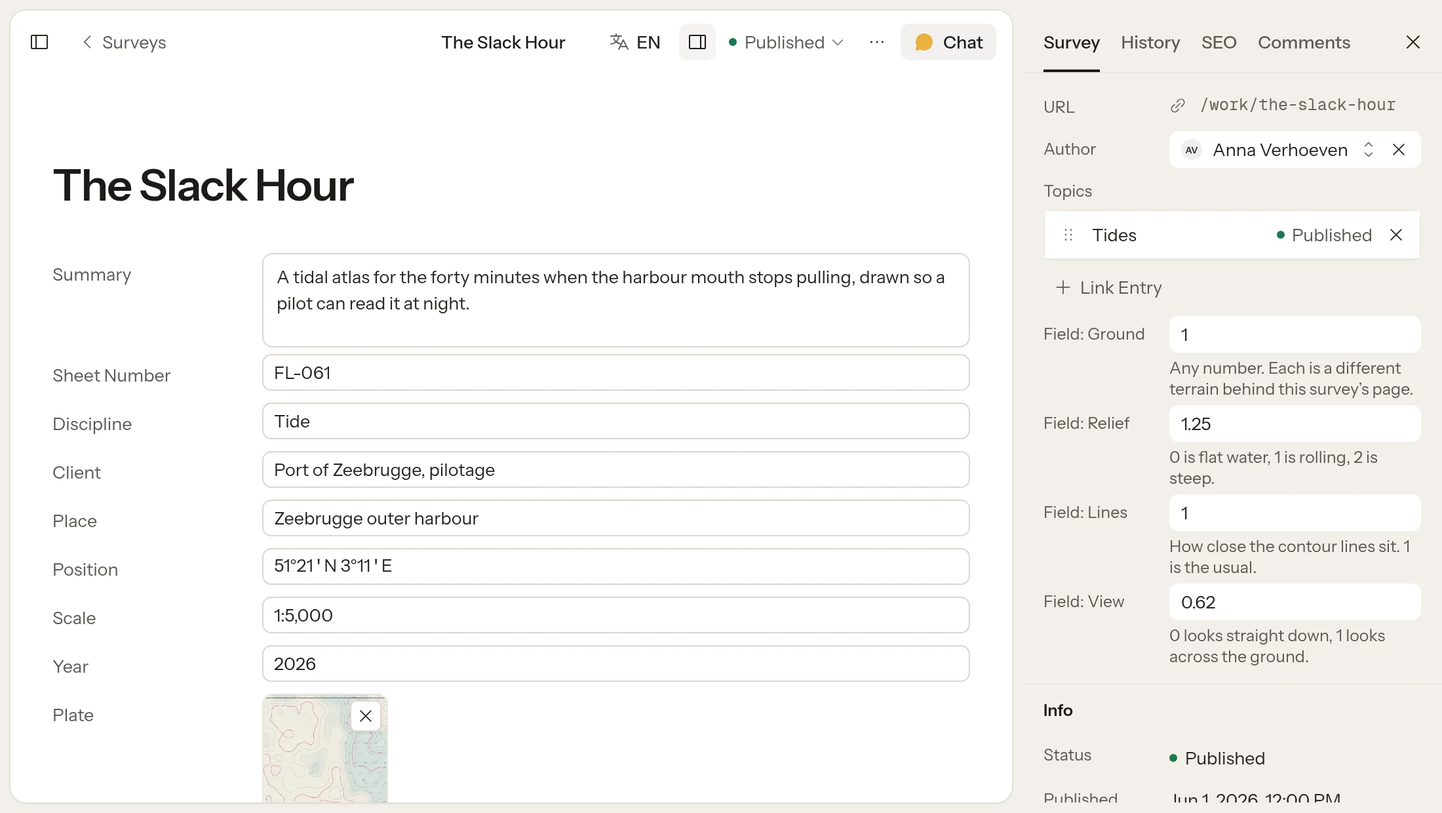
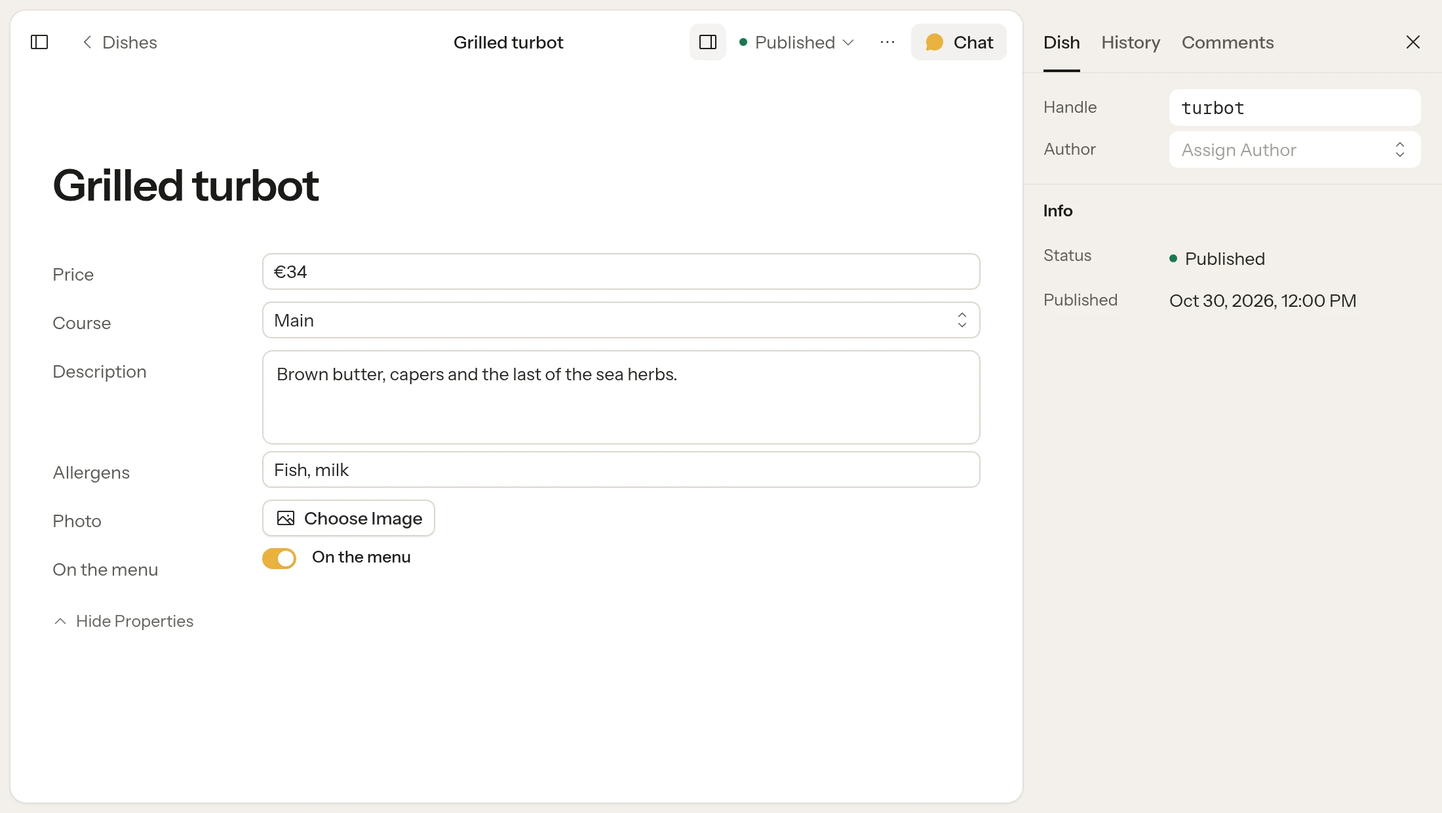
Take the docs' pictures from Ondine again, and say Minimal is a kit of the store
Ondine, the restaurant, is the example site again: the pictures, the
running example of the pages that teach collections and entries, and the
role example follow. The Site Kits pages no longer name Fathomline or Use
Only the Design, and say Minimal is fetched from the store and can be
deleted when the site is another kit.

diff --git a/content/collections/docs/content/collections.md b/content/collections/docs/content/collections.md
@@ -2,11 +2,11 @@
 id: 01m5wmrf4tpyhxb0sn1y43468e
 title: Collections
 position: 0
-description: Make your own kinds of content, like surveys, blog posts or team members, each with the fields it needs.
+description: Make your own kinds of content, like dishes, blog posts or team members, each with the fields it needs.
 ---
-A collection is one kind of content on your site: blog posts, team members, projects, surveys. You decide which fields it has, and everyone then fills in a simple form. Every item in it, each post or each survey, is an **entry**.
+A collection is one kind of content on your site: blog posts, team members, projects, dishes. You decide which fields it has, and everyone then fills in a simple form. Every item in it, each post or each dish, is an **entry**.
 
-::: html {"props":{"html":"<figure class=\"docs-fig\" role=\"img\" aria-label=\"A collection called Surveys defines the fields. Each survey is an entry that fills them in.\"><div class=\"docs-fig__flow\"><div class=\"docs-fig__step\"><div class=\"docs-card\"><b>Surveys</b><span class=\"docs-card__field\">Place</span><span class=\"docs-card__field\">Summary</span><span class=\"docs-card__field\">Plate</span></div><b>Collection</b><small>The fields every survey has</small></div><span class=\"docs-fig__op docs-fig__op--to\">→</span><div class=\"docs-fig__step\"><div class=\"docs-stack\"><div class=\"docs-card docs-card--row\"><span>The Slack Hour</span><em>Zeebrugge</em></div><div class=\"docs-card docs-card--row\"><span>Forty Knots of Nothing</span><em>De Panne</em></div><div class=\"docs-card docs-card--row\"><span>Ground Truth</span><em>Kortrijk</em></div></div><b>Entries</b><small>One for each survey</small></div></div></figure>"}}
+::: html {"props":{"html":"<figure class=\"docs-fig\" role=\"img\" aria-label=\"A collection called Dishes defines the fields. Each dish is an entry that fills them in.\"><div class=\"docs-fig__flow\"><div class=\"docs-fig__step\"><div class=\"docs-card\"><b>Dishes</b><span class=\"docs-card__field\">Price</span><span class=\"docs-card__field\">Description</span><span class=\"docs-card__field\">Photo</span></div><b>Collection</b><small>The fields every dish has</small></div><span class=\"docs-fig__op docs-fig__op--to\">→</span><div class=\"docs-fig__step\"><div class=\"docs-stack\"><div class=\"docs-card docs-card--row\"><span>Grilled turbot</span><em>€34</em></div><div class=\"docs-card docs-card--row\"><span>Six oysters</span><em>€21</em></div><div class=\"docs-card docs-card--row\"><span>Lemon tart</span><em>€9</em></div></div><b>Entries</b><small>One for each dish</small></div></div></figure>"}}
 :::
 
 Pages are a collection too. Your templates then show the entries in your design, so the people filling them in never have to think about layout.
@@ -14,7 +14,7 @@ Pages are a collection too. Your templates then show the entries in your design,
 ## Create a collection
 
 1. Open **Collections**, under **Design** in the sidebar, and press **New Collection**.
-2. Give it a name, like *Surveys*.
+2. Give it a name, like *Dishes*.
 3. Choose a **Structure** (see below).
 4. Press **Create Collection**.
 
@@ -22,21 +22,21 @@ Pages are a collection too. Your templates then show the entries in your design,
 
 The collection opens on its **Fields**, ready for the next step, and it appears in the sidebar, under **Content**, for everyone allowed to see it.
 
-Under **Advanced** you can also set the **Handle** (the name used in code and file names), the **Entry Name** (*Survey* for *Surveys*), the **URL Pattern**, the **Template** and the **Storage** (the database, or files you can keep in git). The entry name, URL pattern and template can be changed later, in the collection's **Settings**.
+Under **Advanced** you can also set the **Handle** (the name used in code and file names), the **Entry Name** (*Dish* for *Dishes*), the **URL Pattern**, the **Template** and the **Storage** (the database, or files you can keep in git). The entry name, URL pattern and template can be changed later, in the collection's **Settings**.
 
 ### Pick a structure
 
 | Structure | Best for | Order |
 |---|---|---|
-| **List** | Surveys, team members, products | Alphabetical, or a field you choose |
+| **List** | Dishes, team members, products | Alphabetical, or a field you choose |
 | **Dated** | Blog posts, news, events | Newest first |
 | **Tree** | Pages that nest, like *About → Team* | By hand, drag to reorder |
 
 ## Add fields
 
-Fields are the questions the form asks: a place, a plate, a short summary. On the collection's **Fields** tab, press **Add Field**, pick a type and give it a label. Drag fields to put them in order, then press **Save** in the bar that appears at the bottom (or `⌘S`).
+Fields are the questions the form asks: a price, a photo, a short description. On the collection's **Fields** tab, press **Add Field**, pick a type and give it a label. Drag fields to put them in order, then press **Save** in the bar that appears at the bottom (or `⌘S`).
 
-![The Surveys collection's fields: report, summary, sheet number, discipline, client, place and more.](/media/screens/collection.webp)
+![The Dishes collection's fields: price, course, description, allergens, photo and whether it's on the menu.](/media/screens/collection.webp)
 
 If the page builder is on, a new collection starts with a **Content** field. That's where an entry is built from blocks, just like a page. Remove it if your entries only need simple fields. See [Fields](/content/fields) for every option.
 
@@ -59,9 +59,9 @@ Next to it, choose the **Template** that frames each entry. Leave it empty to us
 
 ## Fill it in
 
-Open the collection from the sidebar and press the button named after its entries, like **New Survey**. You, your team and your clients fill in the form, and the design takes care of itself.
+Open the collection from the sidebar and press the button named after its entries, like **New Dish**. You, your team and your clients fill in the form, and the design takes care of itself.
 
-![Filling in a survey: one simple form, with the fields the collection asks for.](/media/screens/entry.webp)
+![Filling in a dish: one simple form, with the fields the collection asks for.](/media/screens/entry.webp)
 
 See [Entries](/content/entries) for saving, publishing and scheduling.
 
@@ -69,7 +69,7 @@ See [Entries](/content/entries) for saving, publishing and scheduling.
 
 Every collection can show its entries as a **Table**, a **Grid** of cards or a **Calendar**. Use **Display** above the list to switch, pick the columns or fields to show, and sort. Your choices are saved for you, per collection.
 
-![The list of surveys in a table.](/media/screens/entries.webp)
+![The list of dishes in a table.](/media/screens/entries.webp)
 
 To keep more than one arrangement, change the list and press **Save View** beside **Display**, then give it a name. It keeps what the list is narrowed to (status, language, search), its order, its columns and whether it is a table, a grid or a calendar. Your views show as tabs above the list, after **All**: choose one to put the list back that way. When you change the list on a view, its tab shows a dot and **Save View** offers to update it or save a new one; **Reset** puts it back. Choose the tab you are on to rename or delete that view. Views are yours alone and come with your account to every browser.
 

diff --git a/content/collections/docs/design/site-kits.md b/content/collections/docs/design/site-kits.md
@@ -6,18 +6,18 @@ description: 'A whole site you can switch to and back: choosing one, trying othe
 ---
 A site kit is a complete site: its pages and posts, its collections, menus and global sets, its design system, templates and components, its scripts, styles and fonts, and the images they show. Your site is one kit at a time, and you can switch between kits and back. Once a kit is on your site every file is yours: nothing links back to it, and a newer version of the kit never changes a site that started from an older one.
 
-A new site starts from **Minimal**, which comes with Lettern: a home page, an about page and a blog with three posts.
+A new site starts from **Minimal**: a home page, an about page and a blog with three posts. It is a kit of the store like any other (`letterncms/minimal`), not part of Lettern: setup fetches it, and it can be deleted when your site is another kit.
 
 A kit is the portable form of a site. It is a folder of Markdown, YAML and JSON (plus the images), whatever your collections store their entries in, so you can keep it in a repository of its own, hand it to someone, or run several sites from kits you made.
 
 ## Choosing one when you install
 
-Setup shows the kits it can start from under **Start From**, each with its picture and its name. **Minimal** is chosen; pick another, or none for an empty site. Kits from the store appear there too, and setup fetches the one you choose as it fetches a plugin. If it can't, setup says so: try again, or start from Minimal.
+Setup shows the kits it can start from under **Start From**, each with its picture and its name. **Minimal** is chosen; pick another, or none for an empty site. Kits from the store appear there too, and setup fetches the one you choose as it fetches a plugin, Minimal included. If it can't, setup says so: try again, or start without a kit.
 
 From the command line, `--kit` chooses it:
 
 ```bash
-php cms install --kit=fathomline        # a kit in kits/, or one to fetch: letterncms/fathomline
+php cms install --kit=studio            # a kit in kits/, or one to fetch: letterncms/studio
 php cms install --kit=none              # an empty site
 ```
 
@@ -27,14 +27,14 @@ A site that already has collections (one you cloned with its content) is never g
 
 Choose a kit from the site's name at the top of the sidebar, or under **Design → Site Kits**. The site is that kit at once: no settings, nothing to decide.
 
-What your site was is saved first, drafts included, with the kit it was. Switch back and you get it as you left it, not as the kit came. The toast after a switch has **Undo**, which does the same. A kit's menu on **Site Kits** has **Start Over**, which brings the kit as it came and lets go of what you changed (it asks first), and **Use Only the Design**, which replaces the templates, components, fonts and styles and leaves your pages, posts and menus.
+What your site was is saved first, drafts included, with the kit it was. Switch back and you get it as you left it, not as the kit came. The toast after a switch has **Undo**, which does the same. A kit's menu on **Site Kits** has **Start Over**, which brings the kit as it came and lets go of what you changed (it asks first).
 
 A switch replaces what a kit carries (see below) and nothing else. Accounts, the media library, form submissions, analytics, the audit log and every setting a kit doesn't carry stay. If the kit needs plugins your site doesn't run, **Site Kits** says which, with a way to the store. A kit with scripts or styles needs **Edit Custom CSS and JavaScript**, and a switch needs the permission to edit the settings. A switch that fails leaves the site as it was; a snapshot of the site is also in `storage/backups/`.
 
 ```bash
 php cms kit:list
-php cms kit:switch fathomline              # the site you leave is saved
-php cms kit:switch minimal --fresh         # the kit as it came
+php cms kit:switch studio                 # the site you leave is saved
+php cms kit:switch studio --fresh          # the kit as it came
 ```
 
 ## Putting a kit on top
@@ -42,8 +42,8 @@ php cms kit:switch minimal --fresh         # the kit as it came
 To bring a kit's parts in beside what your site has, instead of replacing it, apply it:
 
 ```bash
-php cms kit:apply fathomline --mode=design --dry-run     # every step, nothing written
-php cms kit:apply fathomline --clash=rename              # refuse (the default), skip, replace or rename
+php cms kit:apply studio --mode=design --dry-run     # every step, nothing written
+php cms kit:apply studio --clash=rename                # refuse (the default), skip, replace or rename
 ```
 
 `--mode=design` brings the tokens, fonts, templates, components, scripts, styles and libraries; `full` (the default) its content too. While your site has something of a name the kit brings, the apply refuses and names each one, until `--clash` says what happens to it: `skip` (yours stays), `replace` (the kit's takes its place, after a snapshot in `storage/backups/`) or `rename` (an entry comes in beside yours under a new address, like `home-2`). Everything a kit would write is checked before the first file is, and a kit that fails on the way leaves your site as it was.
@@ -71,11 +71,11 @@ A kit never holds accounts, tokens, secrets, form submissions, analytics, the au
 
 ## Naming a kit
 
-A kit's name, description and thumbnail come from its `kit.json` and `previews/`. **Export Site** asks for them (left empty, the description is your site's own), and **Edit Details** on a kit's menu changes them later. A kit that comes with Lettern can't be changed. Agents use `kits/update`.
+A kit's name, description and thumbnail come from its `kit.json` and `previews/`. **Export Site** asks for them (left empty, the description is your site's own), and **Edit Details** on a kit's menu changes them later. Agents use `kits/update`.
 
 ## Deleting a kit
 
-**Delete** on a kit's menu removes the kit and the copy kept of it, with what you changed in it; your site stays as it is. The kit your site is now can't be deleted (switch first), nor can the kits that come with Lettern. Agents use `kits/delete`.
+**Delete** on a kit's menu removes the kit and the copy kept of it, with what you changed in it; your site stays as it is. The kit your site is now can't be deleted (switch first): a site is always one kit that is there, or none. Minimal can be deleted like any other kit, and fetched again from the store when you want it. Agents use `kits/delete`.
 
 ## Importing a kit
 

diff --git a/content/collections/docs/design/data.md b/content/collections/docs/design/data.md
@@ -4,12 +4,12 @@ title: Showing content
 position: 4
 description: Connect blocks to your content, so pages show their own title, the latest posts or your menu, in your design.
 ---
-Much of what a page shows isn't typed into the page. A template shows each page's own title. A menu lists your links. A home page lists the latest surveys. In Lettern, you design a block once and connect it to that content, and the content fills it in.
+Much of what a page shows isn't typed into the page. A template shows each page's own title. A menu lists your links. A home page lists the latest dishes. In Lettern, you design a block once and connect it to that content, and the content fills it in.
 
-::: html {"props":{"html":"<figure class=\"docs-fig\" role=\"img\" aria-label=\"One card designed inside a Repeat, times every survey in the collection, makes a page with one card per survey.\"><div class=\"docs-fig__flow\"><div class=\"docs-fig__step\"><div class=\"docs-card\"><b>Survey card</b><span class=\"docs-card__field\">Title</span><span class=\"docs-card__field\">Place</span></div><b>Your design</b><small>One card, inside a Repeat</small></div><span class=\"docs-fig__op\">×</span><div class=\"docs-fig__step\"><div class=\"docs-stack\"><div class=\"docs-card docs-card--row\"><span>The Slack Hour</span><em>Zeebrugge</em></div><div class=\"docs-card docs-card--row\"><span>Forty Knots of Nothing</span><em>De Panne</em></div><div class=\"docs-card docs-card--row\"><span>Ground Truth</span><em>Kortrijk</em></div></div><b>Your content</b><small>Every survey in the collection</small></div><span class=\"docs-fig__op\">=</span><div class=\"docs-fig__step\"><div class=\"docs-mock docs-mock--live\"><i class=\"docs-mock__h\"></i><i class=\"docs-mock__l\"></i><i class=\"docs-mock__h\"></i><i class=\"docs-mock__l\"></i><i class=\"docs-mock__h\"></i><i class=\"docs-mock__l\"></i></div><b>The page</b><small>One card per survey</small></div></div></figure>"}}
+::: html {"props":{"html":"<figure class=\"docs-fig\" role=\"img\" aria-label=\"One card designed inside a Repeat, times every dish in the collection, makes a page with one card per dish.\"><div class=\"docs-fig__flow\"><div class=\"docs-fig__step\"><div class=\"docs-card\"><b>Dish card</b><span class=\"docs-card__field\">Name</span><span class=\"docs-card__field\">Price</span></div><b>Your design</b><small>One card, inside a Repeat</small></div><span class=\"docs-fig__op\">×</span><div class=\"docs-fig__step\"><div class=\"docs-stack\"><div class=\"docs-card docs-card--row\"><span>Grilled turbot</span><em>€34</em></div><div class=\"docs-card docs-card--row\"><span>Six oysters</span><em>€21</em></div><div class=\"docs-card docs-card--row\"><span>Lemon tart</span><em>€9</em></div></div><b>Your content</b><small>Every dish in the collection</small></div><span class=\"docs-fig__op\">=</span><div class=\"docs-fig__step\"><div class=\"docs-mock docs-mock--live\"><i class=\"docs-mock__h\"></i><i class=\"docs-mock__l\"></i><i class=\"docs-mock__h\"></i><i class=\"docs-mock__l\"></i><i class=\"docs-mock__h\"></i><i class=\"docs-mock__l\"></i></div><b>The page</b><small>One card per dish</small></div></div></figure>"}}
 :::
 
-When an editor adds a survey, it appears on the page in your design. Nobody has to touch the layout.
+When an editor adds a dish, it appears on the page in your design. Nobody has to touch the layout.
 
 ## Show a field in a block
 
@@ -25,27 +25,27 @@ The list only offers what makes sense where the block is: inside a template, the
 
 You can also type into a connected setting. Put data in braces, and write words around it:
 
-- `© {site.year} {site.name}` gives *© 2026 Fathomline*.
+- `© {site.year} {site.name}` gives *© 2026 Ondine*.
 - `Posted {entry.date|date:M j, Y}` gives *Posted Oct 4, 2026*.
 
 The part after `|` is a filter that changes how a value looks: a date format, a short excerpt, upper case. The list shows a few examples at the bottom, and the full set is under [For developers](#filters).
 
 ## Show a list with Repeat
 
-A **Repeat** block shows its contents once for every item of a list: every survey, every link of a menu, every page in a section. You design one item, and the Repeat makes the rest.
+A **Repeat** block shows its contents once for every item of a list: every dish, every link of a menu, every page in a section. You design one item, and the Repeat makes the rest.
 
-![The Repeat block on the home page, listing surveys, with its Content settings on the right.](/media/screens/design-repeat.webp)
+![The Repeat block on the home page, listing dishes, with its Content settings on the right.](/media/screens/design-repeat.webp)
 
 1. Add a **Repeat** block where the list should go.
 2. In its **Content** tab, choose a **List**, like **Collection Entries**, and set it up: which **Collection**, in what **Sort Order**, and **How Many**. **Only Entries Where** narrows it down with conditions: pick a field, how it compares (*is*, *is not*, *contains*…) and a value.
-3. Inside the Repeat, design one item: a card with a heading, an image and a place.
+3. Inside the Repeat, design one item: a card with a heading, an image and a price.
 4. Connect each block in it to the item: the heading to the item's **Title**, the image to a photo field, the card's link to the item's **Link**.
 
 Style the Repeat itself in **Design** to lay the items out, for example as a grid of three columns that becomes one column on phones.
 
 | List | Repeats for |
 |---|---|
-| **Collection Entries** | Entries of a collection: the latest posts, all surveys, the projects in a category |
+| **Collection Entries** | Entries of a collection: the latest posts, all dishes, the projects in a category |
 | **Child Pages** | The pages under this page, under its parent, or in its whole section |
 | **Breadcrumbs** | The pages above this one, for a breadcrumb trail |
 | **Previous and Next Entry** | The entries before and after this one in its collection's order, for the foot of an article or a project. **Show** takes either side alone, and **Go Round at the Ends** leads from the last back to the first |

diff --git a/content/collections/docs/operations/publishing.md b/content/collections/docs/operations/publishing.md
@@ -38,10 +38,10 @@ You rarely need it: publishing a page already updates every page it affects. It'
 
 Lettern remembers what each page shows. So when you change something, it rebuilds only the pages that use it, and leaves the rest alone.
 
-::: html {"props":{"html":"<figure class=\"docs-fig\" role=\"img\" aria-label=\"You publish a survey. Lettern rebuilds the survey's page and the page that lists it, and writes them as plain HTML files that visitors get directly.\"><div class=\"docs-fig__flow\"><div class=\"docs-fig__step\"><div class=\"docs-card\"><b>The Slack Hour</b><span class=\"docs-card__field\">Place</span><span class=\"docs-card__field\">Plate</span></div><b>You publish</b><small>One survey</small></div><span class=\"docs-fig__op docs-fig__op--to\">→</span><div class=\"docs-fig__step\"><div class=\"docs-stack\"><div class=\"docs-card docs-card--row\"><span>/work/the-slack-hour</span></div><div class=\"docs-card docs-card--row\"><span>/work</span></div><div class=\"docs-card docs-card--row\"><span>/</span></div></div><b>Lettern rebuilds</b><small>Only the pages that show it</small></div><span class=\"docs-fig__op docs-fig__op--to\">→</span><div class=\"docs-fig__step\"><div class=\"docs-mock docs-mock--live\"><i class=\"docs-mock__bar\"></i><i class=\"docs-mock__h\"></i><i class=\"docs-mock__l\"></i><i class=\"docs-mock__img\"></i></div><b>Visitors get files</b><small>No PHP, no database</small></div></div></figure>"}}
+::: html {"props":{"html":"<figure class=\"docs-fig\" role=\"img\" aria-label=\"You publish a dish. Lettern rebuilds the dish's page and the menu page that lists it, and writes them as plain HTML files that visitors get directly.\"><div class=\"docs-fig__flow\"><div class=\"docs-fig__step\"><div class=\"docs-card\"><b>Grilled turbot</b><span class=\"docs-card__field\">Price</span><span class=\"docs-card__field\">Photo</span></div><b>You publish</b><small>One dish</small></div><span class=\"docs-fig__op docs-fig__op--to\">→</span><div class=\"docs-fig__step\"><div class=\"docs-stack\"><div class=\"docs-card docs-card--row\"><span>/dishes/turbot</span></div><div class=\"docs-card docs-card--row\"><span>/menu</span></div><div class=\"docs-card docs-card--row\"><span>/</span></div></div><b>Lettern rebuilds</b><small>Only the pages that show it</small></div><span class=\"docs-fig__op docs-fig__op--to\">→</span><div class=\"docs-fig__step\"><div class=\"docs-mock docs-mock--live\"><i class=\"docs-mock__bar\"></i><i class=\"docs-mock__h\"></i><i class=\"docs-mock__l\"></i><i class=\"docs-mock__img\"></i></div><b>Visitors get files</b><small>No PHP, no database</small></div></div></figure>"}}
 :::
 
-- **Change a survey**, and its page, the list that shows it and the home page that features it are rebuilt.
+- **Change a dish**, and its page, the menu that lists it and the home page that features it are rebuilt.
 - **Change the header**, and the pages that show the header are rebuilt.
 - **Change something every page uses**, like the [design system](/design/design-system), a template, a menu or the site settings, and the whole site is rebuilt.
 

diff --git a/content/collections/docs/getting-started/how-it-works.md b/content/collections/docs/getting-started/how-it-works.md
@@ -31,9 +31,9 @@ Your colors, fonts and spacing live in one place: the **design system**. Blocks 
 
 ## Content lives in collections
 
-Pages are one kind of content. Most sites have others: blog posts, team members, projects, products. Each kind is a **collection**, and you decide which fields it has. Every item in it, each post or each project, is an **entry**.
+Pages are one kind of content. Most sites have others: blog posts, team members, projects, products. Each kind is a **collection**, and you decide which fields it has. Every item in it, each post or each dish, is an **entry**.
 
-::: html {"props":{"html":"<figure class=\"docs-fig\" role=\"img\" aria-label=\"A collection called Surveys defines the fields. Each survey is an entry that fills them in.\"><div class=\"docs-fig__flow\"><div class=\"docs-fig__step\"><div class=\"docs-card\"><b>Surveys</b><span class=\"docs-card__field\">Place</span><span class=\"docs-card__field\">Summary</span><span class=\"docs-card__field\">Plate</span></div><b>Collection</b><small>The fields every survey has</small></div><span class=\"docs-fig__op docs-fig__op--to\">→</span><div class=\"docs-fig__step\"><div class=\"docs-stack\"><div class=\"docs-card docs-card--row\"><span>The Slack Hour</span><em>Zeebrugge</em></div><div class=\"docs-card docs-card--row\"><span>Forty Knots of Nothing</span><em>De Panne</em></div><div class=\"docs-card docs-card--row\"><span>Ground Truth</span><em>Kortrijk</em></div></div><b>Entries</b><small>One for each survey</small></div></div></figure>"}}
+::: html {"props":{"html":"<figure class=\"docs-fig\" role=\"img\" aria-label=\"A collection called Dishes defines the fields. Each dish is an entry that fills them in.\"><div class=\"docs-fig__flow\"><div class=\"docs-fig__step\"><div class=\"docs-card\"><b>Dishes</b><span class=\"docs-card__field\">Price</span><span class=\"docs-card__field\">Description</span><span class=\"docs-card__field\">Photo</span></div><b>Collection</b><small>The fields every dish has</small></div><span class=\"docs-fig__op docs-fig__op--to\">→</span><div class=\"docs-fig__step\"><div class=\"docs-stack\"><div class=\"docs-card docs-card--row\"><span>Grilled turbot</span><em>€34</em></div><div class=\"docs-card docs-card--row\"><span>Six oysters</span><em>€21</em></div><div class=\"docs-card docs-card--row\"><span>Lemon tart</span><em>€9</em></div></div><b>Entries</b><small>One for each dish</small></div></div></figure>"}}
 :::
 
 Your pages then show those entries in your design: the latest posts on the home page, the full menu on the menu page. Editors only fill in the fields, and the design takes care of itself. See [Collections](/content/collections).

diff --git a/content/collections/docs/operations/users-and-roles.md b/content/collections/docs/operations/users-and-roles.md
@@ -4,9 +4,9 @@ title: Users and roles
 position: 3
 description: Let your clients and team in, each with exactly the access they need, down to a single collection.
 ---
-Everyone who works on the site gets their own sign-in. A **role** decides what they can do: your team may change everything, while a client only updates their surveys and plates, and never touches the design.
+Everyone who works on the site gets their own sign-in. A **role** decides what they can do: your team may change everything, while a client only updates their menu and photos, and never touches the design.
 
-![A role made for a client: the survey team can change surveys and field reports and upload plates, nothing else.](/media/screens/operations-roles.webp)
+![A role made for a client: the restaurant team can change dishes and upload photos, nothing else.](/media/screens/operations-roles.webp)
 
 ## Invite someone
 
@@ -34,13 +34,13 @@ Someone with more than one role can do everything any of them allows.
 Most clients need less than an Editor. Give them a role that fits.
 
 1. Open **Settings → Roles** and press **New Role**.
-2. Name it, like *Survey team*, and describe it in a few words.
-3. Tick what it may do. The collections are one table, with **View**, **Create**, **Edit**, **Publish** and **Delete** for each, so a role can be limited to just the surveys. A group's **All** ticks or clears all of it, a collection's name its row, and **All Collections** a column.
+2. Name it, like *Restaurant team*, and describe it in a few words.
+3. Tick what it may do. The collections are one table, with **View**, **Create**, **Edit**, **Publish** and **Delete** for each, so a role can be limited to just the dishes. A group's **All** ticks or clears all of it, a collection's name its row, and **All Collections** a column.
 4. Press **Save** in the bar at the bottom, or `⌘S`, and give the role to your client under **Users**.
 
 Permissions are grouped by what they're about, **Admin** first. To start from a role you have, choose **Duplicate Role** in its menu; **Delete Role** is there too. The number beside a role is how many people hold it. The **Administrator** role always keeps every permission, so nobody can lock the site out.
 
-::: callout {"props":{"tone":"tip","text":"To keep the design as it is, give a client only the collections they write in, like Surveys, and leave out Templates, Components and the settings."}}
+::: callout {"props":{"tone":"tip","text":"To keep the design as it is, give a client only the collections they write in, like Dishes, and leave out Templates, Components and the settings."}}
 :::
 
 ## Team and visitors

diff --git a/content/collections/docs/agents/assistant.md b/content/collections/docs/agents/assistant.md
@@ -6,7 +6,7 @@ description: Claude, in the workspace. Ask in plain words and watch it build, wr
 ---
 The assistant is Claude, answering in the [workspace](/getting-started/workspace). Ask it in plain words to build a page, rewrite a section or fix your SEO, and watch the change happen on the page beside the thread. It works as you, with your permissions, and asks before it deletes anything, turns a plugin on or off, or does something hard to undo.
 
-::: html {"props":{"html":"<figure class=\"docs-fig\" role=\"img\" aria-label=\"You ask in plain words. The assistant makes the change on the page, as you. Deleting waits for your go-ahead.\"><div class=\"docs-fig__flow\"><div class=\"docs-fig__step\"><div class=\"docs-card\"><b>You</b><span class=\"docs-card__field\">Add our people to the office page</span></div><b>Ask</b><small>In plain words</small></div><span class=\"docs-fig__op docs-fig__op--to\">→</span><div class=\"docs-fig__step\"><div class=\"docs-mock docs-mock--live\"><i class=\"docs-mock__h\"></i><i class=\"docs-mock__l\"></i><i class=\"docs-mock__l docs-mock__l--short\"></i><i class=\"docs-mock__img\"></i></div><b>It works</b><small>On the page, as you</small></div><span class=\"docs-fig__op docs-fig__op--to\">→</span><div class=\"docs-fig__step\"><div class=\"docs-card\"><b>Allow this action?</b><span class=\"docs-card__field\">Delete “Night Shift”</span></div><b>You decide</b><small>Before anything is deleted</small></div></div></figure>"}}
+::: html {"props":{"html":"<figure class=\"docs-fig\" role=\"img\" aria-label=\"You ask in plain words. The assistant makes the change on the page, as you. Deleting waits for your go-ahead.\"><div class=\"docs-fig__flow\"><div class=\"docs-fig__step\"><div class=\"docs-card\"><b>You</b><span class=\"docs-card__field\">Add a wine list under the menu</span></div><b>Ask</b><small>In plain words</small></div><span class=\"docs-fig__op docs-fig__op--to\">→</span><div class=\"docs-fig__step\"><div class=\"docs-mock docs-mock--live\"><i class=\"docs-mock__h\"></i><i class=\"docs-mock__l\"></i><i class=\"docs-mock__l docs-mock__l--short\"></i><i class=\"docs-mock__img\"></i></div><b>It works</b><small>On the page, as you</small></div><span class=\"docs-fig__op docs-fig__op--to\">→</span><div class=\"docs-fig__step\"><div class=\"docs-card\"><b>Allow this action?</b><span class=\"docs-card__field\">Delete “Lemon tart”</span></div><b>You decide</b><small>Before anything is deleted</small></div></div></figure>"}}
 :::
 
 ## Set it up

diff --git a/content/collections/docs/agents/cli.md b/content/collections/docs/agents/cli.md
@@ -79,12 +79,12 @@ php cms vendor remove nothing --json
 
 | Command | Does |
 |---|---|
-| `cms install` | Installs a site: see [Installation](/getting-started/installation). `--kit=<handle>` starts it from a site kit (`minimal` unless you say otherwise, `none` for an empty site). |
+| `cms install` | Installs a site: see [Installation](/getting-started/installation). `--kit=<handle>` starts it from a site kit (`minimal`, fetched from the store, unless you say otherwise; `none` for an empty site). |
 | `cms migrate` | Runs migrations and plugin install and upgrade steps, and imports `content/media`. It never asks before it runs. `migrate:status`, `migrate:rollback` and the other `migrate:` commands cover the core's tables and the plugins'. |
 | `cms update` | Checks the signed update list and [updates the core](/getting-started/upgrading). `--check` only says what's on offer. `--security-only` does what an admin's visit would, for cron. |
-| `cms kit:list` | Lists the site kits this site can apply: `minimal`, which comes with the CMS, and the folders in `kits/`. |
+| `cms kit:list` | Lists the site kits this site can apply: the folders in `kits/`. |
 | `cms kit:switch <handle>` | Makes this site another site kit, saving what it is now: switching back brings it as you left it. `--fresh` brings the kit as it came. |
-| `cms kit:apply <handle>` | Copies a site kit into this site. `--mode=design` brings its design only, `full` (the default) its content too. `--dry-run` lists every step; while the site has something of a name the kit brings, it refuses until `--clash=skip`, `replace` (after a snapshot in `storage/backups/`) or `rename`. `kit:apply minimal --clash=replace` puts the kit a new site starts from back. |
+| `cms kit:apply <handle>` | Copies a site kit into this site. `--mode=design` brings its design only, `full` (the default) its content too. `--dry-run` lists every step; while the site has something of a name the kit brings, it refuses until `--clash=skip`, `replace` (after a snapshot in `storage/backups/`) or `rename`. `composer require letterncms/minimal`, then `kit:apply minimal --clash=replace`, puts the kit a new site starts from back. |
 | `cms kit:export <folder>` | Writes this site as a site kit: content, design and the media they name, never accounts, secrets or settings of this server. |
 
 ## Users, tokens and plugins

diff --git a/content/collections/docs/content/entries.md b/content/collections/docs/content/entries.md
@@ -4,13 +4,13 @@ title: Entries
 position: 2
 description: Write, save as you go, publish now or later, and go back to an earlier version whenever you need to.
 ---
-An entry is one item in a collection: a page, a blog post, a survey. You fill it in, Lettern saves as you type, and nothing goes live until you publish.
+An entry is one item in a collection: a page, a blog post, a dish. You fill it in, Lettern saves as you type, and nothing goes live until you publish.
 
-![Filling in a survey: one simple form, with the fields the collection asks for.](/media/screens/entry.webp)
+![Filling in a dish: one simple form, with the fields the collection asks for.](/media/screens/entry.webp)
 
 ## Write and publish
 
-1. Open a collection from the sidebar and press the **New** button, such as **New Survey**.
+1. Open a collection from the sidebar and press the **New** button, such as **New Dish**.
 2. Give it a title and fill in the fields. Your work saves as you type.
 3. Press **Publish** when it's ready. It's live straight away.
 
@@ -59,7 +59,7 @@ An entry that's already live can't be scheduled for the future. Unpublish it fir
 
 ## Entry details
 
-Press the panel button in the toolbar, named after the kind of entry (**Page Details**), or `⌘.`, to open the details on the right. The first tab is named after the kind of entry (**Page**, **Post**, **Survey**). **History** follows it, then any tabs plugins add, like **SEO**.
+Press the panel button in the toolbar, named after the kind of entry (**Page Details**), or `⌘.`, to open the details on the right. The first tab is named after the kind of entry (**Page**, **Post**, **Dish**). **History** follows it, then any tabs plugins add, like **SEO**.
 
 On the first tab you change the title, the URL slug and the **Author**. Fields set to **Show as Property** appear here too. Under **Info** you see its status and when it was published; people who can manage collections also see when it was created and updated. An entry's ID is **Copy ID** in **More Actions**.
 

diff --git a/content/collections/docs/editing/canvas.md b/content/collections/docs/editing/canvas.md
@@ -16,7 +16,7 @@ The page you edit is the real site, drawn by the same engine that builds it for 
 2. Its settings open on the right, under its name.
 3. Pick **Content**, **Design** or **Interact**.
 
-If the sidebar is closed, press `⌘.` to open it. To get back to the page's own details, press the back button at the top of the sidebar, named after the collection (**Page**, **Survey**…).
+If the sidebar is closed, press `⌘.` to open it. To get back to the page's own details, press the back button at the top of the sidebar, named after the collection (**Page**, **Dish**…).
 
 To rename the block, double-click its name, or choose **Rename** in its **⋯** menu, beside the name. The same menu has **Duplicate**, **Make a Component** and **Delete**.
 
@@ -27,7 +27,7 @@ Change what the block says or shows, like a heading's level or a button's link. 
 - **Visibility** hides a block on the site, or shows it only when some data says so.
 - **Advanced** holds the technical settings: the HTML tag, a button's type, how an image loads (**Load First**, **Shown Width**), and a **Layer Name**, an **Anchor** to link to (`#menu`), extra CSS **Classes** and HTML **Attributes**.
 
-Point at a setting and a database icon appears beside its label, **Connect to Data**: the setting then comes from your content instead of being typed in, like a survey's place or the latest posts. See [Showing content](/design/data).
+Point at a setting and a database icon appears beside its label, **Connect to Data**: the setting then comes from your content instead of being typed in, like a dish's price or the latest posts. See [Showing content](/design/data).
 
 ## Design
 

diff --git a/content/collections/docs/getting-started/quick-start.md b/content/collections/docs/getting-started/quick-start.md
@@ -56,11 +56,11 @@ Every block on every page uses these values. Change your main color once, and th
 
 ## 4. Add your own kind of content
 
-Pages aren't the only content a site has. A survey office has surveys, an agency has projects, a blog has posts. Each kind of content is a **collection**, with its own fields.
+Pages aren't the only content a site has. A restaurant has dishes, an agency has projects, a blog has posts. Each kind of content is a **collection**, with its own fields.
 
-Open **Collections**, under **Design**, to make one, say *Surveys* with a place, a summary and a plate. Then everyone fills in a simple form, and your pages show the surveys in your design.
+Open **Collections**, under **Design**, to make one, say *Dishes* with a price, a description and a photo. Then everyone fills in a simple form, and your pages show the dishes in your design.
 
-![Filling in a survey: one simple form, with the fields the collection asks for.](/media/screens/entry.webp)
+![Filling in a dish: one simple form, with the fields the collection asks for.](/media/screens/entry.webp)
 
 See [Collections](/content/collections) to set one up.
 

diff --git a/content/collections/docs/editing/writing.md b/content/collections/docs/editing/writing.md
@@ -78,7 +78,7 @@ Selecting a block also opens its settings on the right, in three tabs: **Content
 
 ## Page details
 
-The right sidebar starts with the page's own details, in a tab named after its collection (**Page**, **Survey**…); the toolbar button that opens it is **Page Details**. Edit the title, URL, author and other fields there. Next to it are **History** and the tabs plugins add, like **Comments**. Press `⌘.` to show or hide it. See [Entries](/content/entries).
+The right sidebar starts with the page's own details, in a tab named after its collection (**Page**, **Dish**…); the toolbar button that opens it is **Page Details**. Edit the title, URL, author and other fields there. Next to it are **History** and the tabs plugins add, like **Comments**. Press `⌘.` to show or hide it. See [Entries](/content/entries).
 
 ## Keyboard shortcuts
 
